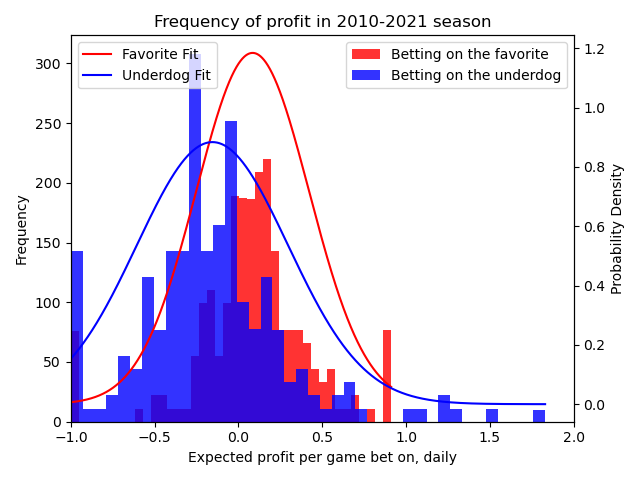
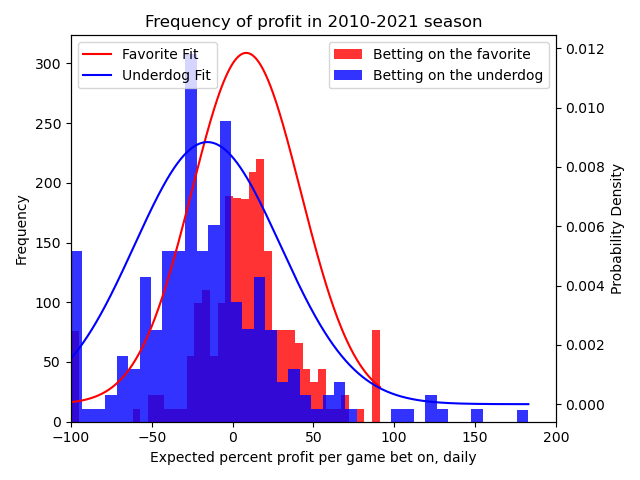
changed x-axis to be in percent profit

diff --git a/main.py b/main.py
@@ -34,18 +34,18 @@ for i in range(int(len(data)/2)):
     #case that team 1 wins
     if data.iloc[2*i,1] > data.iloc[2*i + 1,1]:
         if t1odd > 0: #t1 is the underdog
-            profit_und[last_index] += t1odd /100
-            profit_fav[last_index] -= 1
+            profit_und[last_index] += t1odd
+            profit_fav[last_index] -= 100
         else: #t1 was the favorite
-            profit_fav[last_index] -= 100 / t1odd #subtract due to negative sign
-            profit_und[last_index] -= 1
+            profit_fav[last_index] -= 10000 / t1odd #subtract due to negative sign
+            profit_und[last_index] -= 100
     else:
         if t2odd > 0: #t2 is the underdog
-            profit_und[last_index] += t2odd /100
-            profit_fav[last_index] -= 1
+            profit_und[last_index] += t2odd
+            profit_fav[last_index] -= 100
         else: #t2 was the favorite
-            profit_fav[last_index] -= 100 / t2odd #subtract due to negative sign
-            profit_und[last_index] -= 1
+            profit_fav[last_index] -= 10000 / t2odd #subtract due to negative sign
+            profit_und[last_index] -= 100
     if data.iloc[2*i+1,0] != prev_date:
         prev_date = data.iloc[2*i+1,0]
         profit_fav[last_index] /= day_games
@@ -65,9 +65,9 @@ x2 = np.linspace(min(profit_und), max(profit_und), 2266)
 ax2.plot(x1, fit_gaussian(profit_fav), label="Favorite Fit",color="red")
 ax2.plot(x2, fit_gaussian(profit_und), label="Underdog Fit",color="blue")
 ax1.set_title("Frequency of profit in 2010-2021 season")
-ax1.set_xlabel("Expected profit per game bet on, daily")
-ax1.set_xlim(-1, 2)
-ax2.set_xlim(-1, 2)
+ax1.set_xlabel("Expected percent profit per game bet on, daily")
+ax1.set_xlim(-100, 200)
+ax2.set_xlim(-100, 200)
 ax1.legend()
 ax2.legend(loc="upper left")
 ax1.set_ylabel("Frequency")
